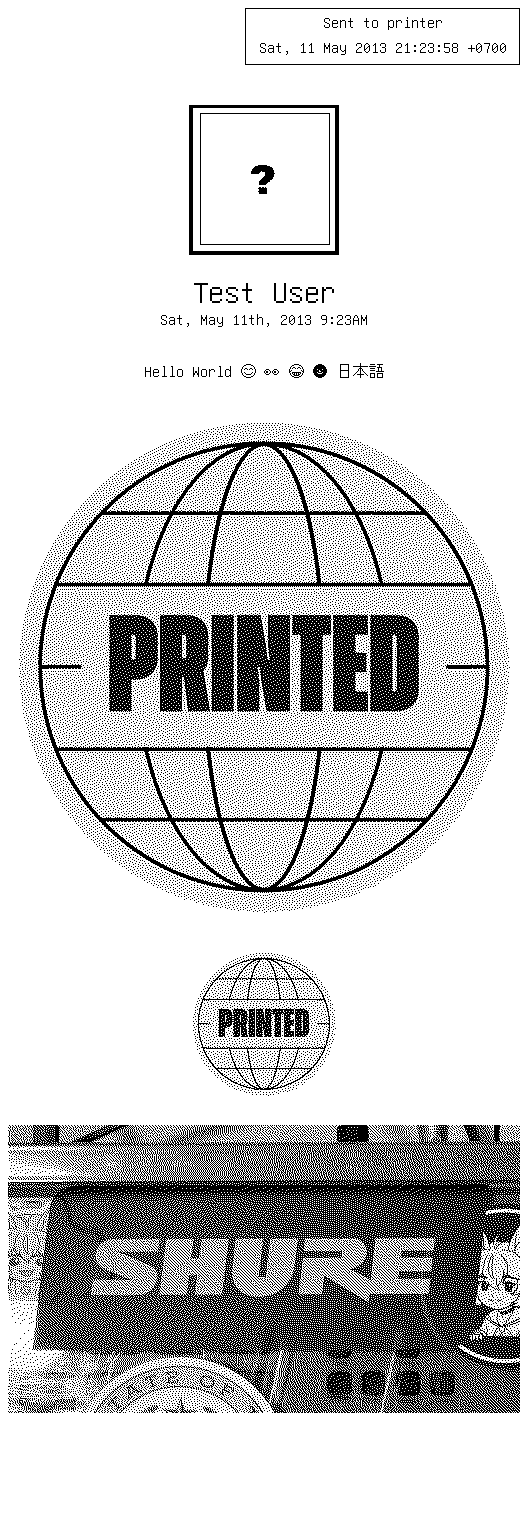
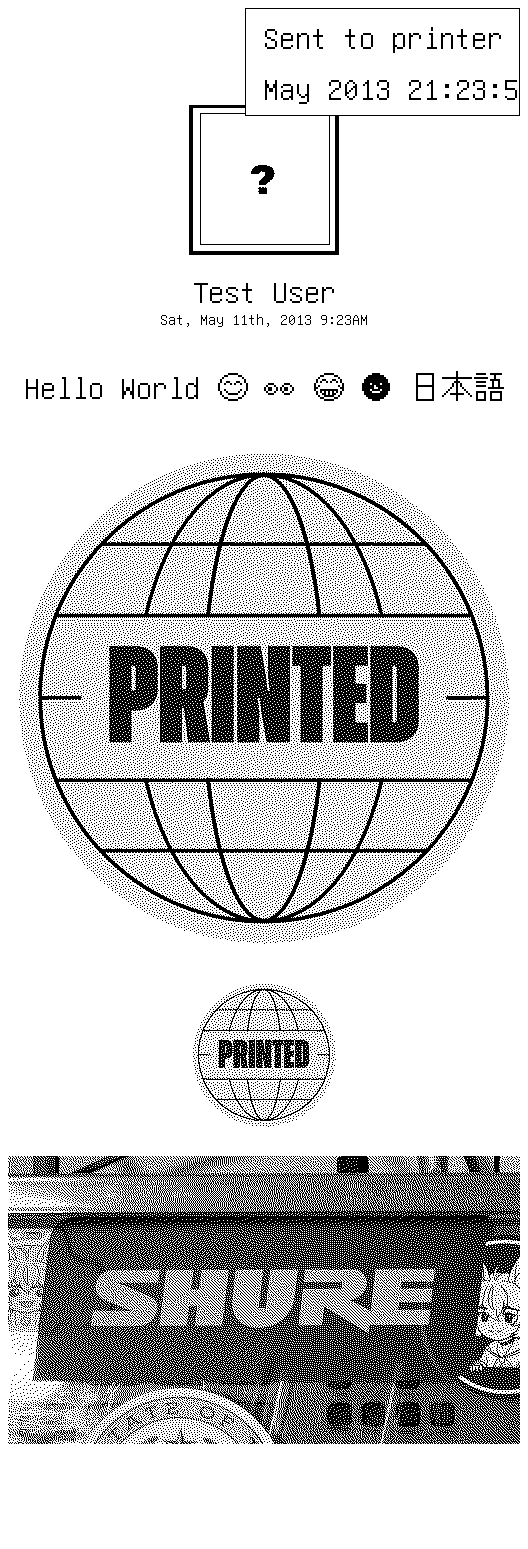
bump font size

diff --git a/fax_frizzle/render/engine.py b/fax_frizzle/render/engine.py
@@ -13,8 +13,8 @@ from fax_frizzle.fax import Fax
 from fax_frizzle.render.wordwrap import wordwrap
 
 _fsize = 16
-font_meta = ImageFont.truetype('unifontex.ttf', _fsize // 2)
-font_body = ImageFont.truetype('unifontex.ttf', _fsize)
+font_meta = ImageFont.truetype('unifontex.ttf', _fsize)
+font_body = ImageFont.truetype('unifontex.ttf', _fsize * 2)
 font_title = ImageFont.truetype('unifontex.ttf', _fsize * 2)
 
 gr = 1.618  # Golden ratio
@@ -74,8 +74,8 @@ def body_text_tile(width: int, text: str, font: ImageFont.FreeTypeFont, **kwargs
 def render_fax(fax: Fax, width: int) -> Image.Image:
     v_padding = int(width // (gr * 3))
 
-    if len(fax.text) > 54 or "\n" in fax.text:
-        body = body_text_tile(width, fax.text, font_body)
+    if len(fax.text) > 30 or "\n" in fax.text:
+        body = body_text_tile(width, fax.text, font_title)
     else:
         body = centered_text_tile(width, fax.text, font_body)
 
@@ -84,7 +84,7 @@ def render_fax(fax: Fax, width: int) -> Image.Image:
         make_avatar_tile(width, fax.user_avatar),
         int(v_padding // 10),
         centered_text_tile(width, fax.user_name, font_title),
-        centered_text_tile(width, fax.human_ts, font_body),
+        centered_text_tile(width, fax.human_ts, font_meta),
         int(v_padding // 4),
         body,
     ]
